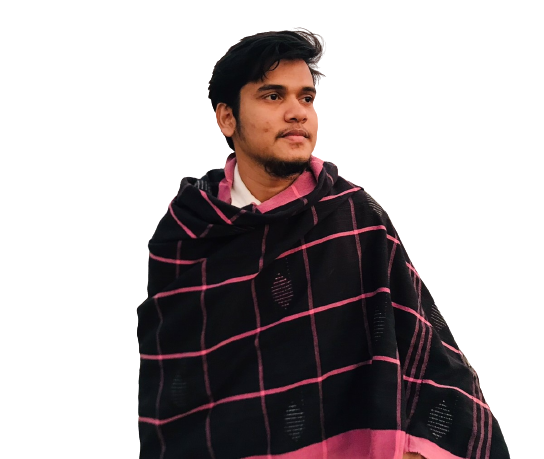
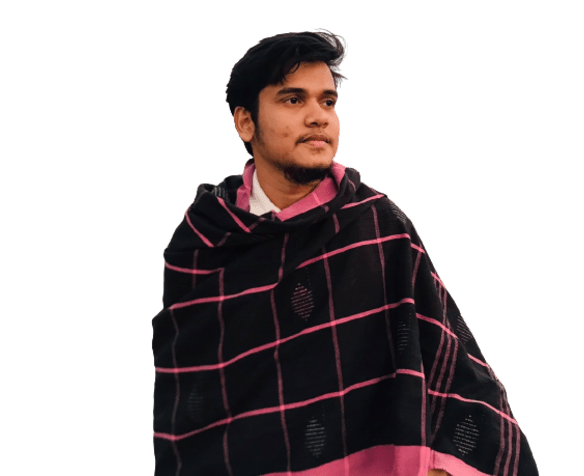
some added design

diff --git a/Font-end Web Development/Milestone_1/Web_day_5_protfolio/Project/developer portfolio/index.html b/Font-end Web Development/Milestone_1/Web_day_5_protfolio/Project/developer portfolio/index.html
@@ -12,6 +12,10 @@
       href="https://fonts.googleapis.com/css2?family=Open+Sans&display=swap"
       rel="stylesheet"
     />
+    <script
+      src="https://kit.fontawesome.com/0bc9ed3813.js"
+      crossorigin="anonymous"
+    ></script>
   </head>
   <body>
     <header class="header">
@@ -32,9 +36,14 @@
             Shot what able cold new see hold.Friendly as an betrayed formerly
             he. Morning because as to society behaved moments.
           </p>
-          <button class="btn-primary">Download CV</button>
+          <button class="btn-primary">
+            <i class="fa fa-solid fa-download"></i> Download CV
+          </button>
+          <button class="btn-phone">
+            <i class="fa fa-solid fa-phone"></i> Contact
+          </button>
         </div>
-        <img src="images/shakib.png" alt="" />
+        <img src="images/shakib_2.png" alt="" />
       </div>
     </header>
 
@@ -180,7 +189,9 @@
           </div>
         </div>
         <div class="resume-button">
-          <button class="btn-primary">Download CV</button>
+          <button class="btn-primary">
+            <i class="fa fa-solid fa-download"></i> Download CV
+          </button>
         </div>
       </section>
 

diff --git a/Font-end Web Development/Milestone_1/Web_day_5_protfolio/Project/developer portfolio/style/portfolio.css b/Font-end Web Development/Milestone_1/Web_day_5_protfolio/Project/developer portfolio/style/portfolio.css
@@ -10,24 +10,42 @@
   border-radius: 5px;
   background-color: #fd6e0a;
   color: #fff;
+  font-weight: 700;
   font-size: 20px;
   border: 0;
   padding: 18px 35px;
 }
 
+.btn-phone {
+  height: 64px;
+  border: 2px solid #fd6e0a;
+  border-radius: 5px;
+  color: #fd6e0a;
+  font-weight: 700;
+  font-size: 20px;
+  padding: 18px 35px;
+}
+
 .header {
+  width: 1600px;
+  height: 837px;
   background-color: #fff8f3;
   background-image: url(../images/header_bg.png), url(../images/developer.png);
   background-repeat: no-repeat;
   background-position: bottom right, left;
+  background-size: 40%, 5%;
+}
+
+img {
+  margin-top: 214px;
 }
 /* Header and navigation styles */
 nav {
   display: flex;
   justify-content: space-between;
-  margin: 0px 200px;
+  padding: 50px 200px;
 }
-nav-title {
+.nav-title {
   font-weight: 800;
   font-size: 45px;
 }
@@ -52,7 +70,7 @@ nav li {
 }
 
 .banner-sub-title {
-  font-weight: 800;
+  font-weight: 600;
   font-size: 45px;
   margin-bottom: 20px;
 }
